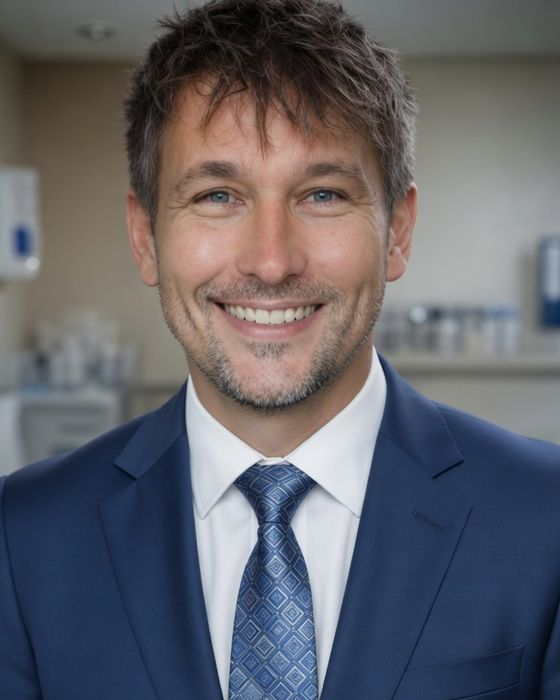
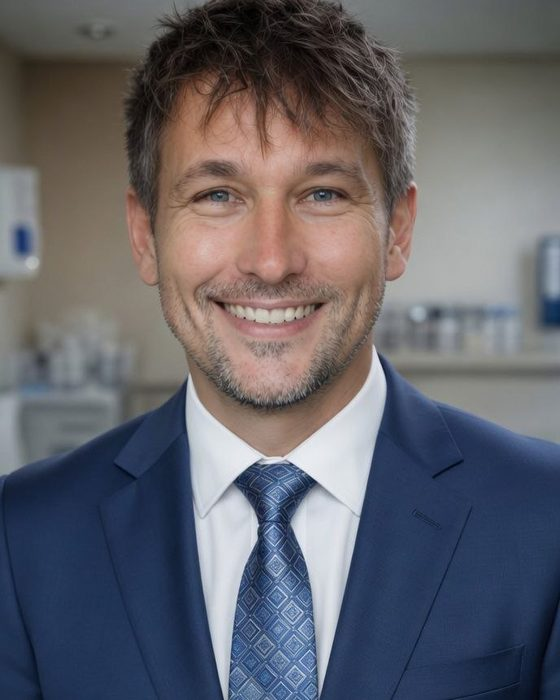
Add files via upload

diff --git a/index.html b/index.html
@@ -34,20 +34,32 @@
   --disp:'Unbounded','Manrope',system-ui,sans-serif;
   --sans:'Manrope',system-ui,-apple-system,'Segoe UI',sans-serif;
 
+  --grid:
+    linear-gradient(rgba(22,22,26,.055) 1px, transparent 1px),
+    linear-gradient(90deg, rgba(22,22,26,.055) 1px, transparent 1px),
+    linear-gradient(rgba(22,22,26,.028) 1px, transparent 1px),
+    linear-gradient(90deg, rgba(22,22,26,.028) 1px, transparent 1px);
+  --grid-dark:
+    linear-gradient(rgba(242,241,236,.055) 1px, transparent 1px),
+    linear-gradient(90deg, rgba(242,241,236,.055) 1px, transparent 1px),
+    linear-gradient(rgba(242,241,236,.028) 1px, transparent 1px),
+    linear-gradient(90deg, rgba(242,241,236,.028) 1px, transparent 1px);
+  --grid-size:112px 112px,112px 112px,28px 28px,28px 28px;
+
   --pad:clamp(18px,5vw,72px);
   --maxw:1160px;
 }
 *{box-sizing:border-box}
 html{-webkit-text-size-adjust:100%;scroll-behavior:smooth}
-body{margin:0;background:var(--paper);color:var(--ink);font-family:var(--sans);font-size:17px;line-height:1.62;-webkit-font-smoothing:antialiased}
-img{max-width:100%;display:block}
+body{margin:0;background-color:var(--paper);background-image:var(--grid);background-size:var(--grid-size);color:var(--ink);font-family:var(--sans);font-size:17px;line-height:1.62;-webkit-font-smoothing:antialiased}
+img{max-width:100%;height:auto;display:block}
 a{color:var(--red)}
 :focus-visible{outline:3px solid var(--red);outline-offset:3px}
 
 .wrap{max-width:var(--maxw);margin:0 auto;padding-left:var(--pad);padding-right:var(--pad)}
 .sect{padding:clamp(52px,7.5vw,96px) 0}
-.sect--tint{background:var(--paper-2)}
-.sect--dark{background:var(--ink);color:var(--paper)}
+.sect--tint{background-color:var(--paper-2);background-image:var(--grid);background-size:var(--grid-size)}
+.sect--dark{background-color:var(--ink);color:var(--paper);background-image:var(--grid-dark);background-size:var(--grid-size)}
 .sect--dark .mute,.sect--dark .lede{color:#A9A9B2}
 .sect--dark .eyebrow{color:#FF7A5C}
 
@@ -110,9 +122,8 @@ p{margin:0 0 1.05em}
 .steps p{margin:0;font-size:16px;color:var(--mute)}
 
 /* инструменты */
-.toolwrap{display:grid;gap:clamp(24px,4vw,48px);align-items:start;margin-top:clamp(24px,3.5vw,38px)}
-@media(min-width:920px){.toolwrap{grid-template-columns:minmax(0,1fr) minmax(0,.72fr)}}
-.tools{display:grid;grid-template-columns:repeat(2,1fr);gap:10px}
+.tools{display:grid;grid-template-columns:repeat(2,1fr);gap:10px;margin-top:clamp(24px,3.5vw,38px)}
+@media(min-width:820px){.tools{grid-template-columns:repeat(4,1fr)}}
 .tools span{border:1.5px solid var(--ink);padding:15px 16px;font-weight:700;font-size:16px;letter-spacing:0;background:var(--paper)}
 .sect--tint .tools span{background:var(--paper-2)}
 .figure{border:2px solid var(--ink);background:#fff}
@@ -138,9 +149,17 @@ p{margin:0 0 1.05em}
 @media(min-width:860px){.author{grid-template-columns:300px minmax(0,1fr)}}
 .author__photo{border:2px solid var(--ink);background:var(--paper-2)}
 .regs{list-style:none;margin:22px 0 0;padding:0;border-top:1px solid var(--line-2)}
-.regs li{display:grid;gap:2px;padding:14px 0;border-bottom:1px solid var(--line-2);font-size:16px}
-@media(min-width:600px){.regs li{grid-template-columns:110px 1fr;gap:22px;align-items:baseline}}
-.regs b{font-weight:700;font-size:14px;color:var(--red);letter-spacing:.02em}
+.regs li{display:grid;gap:6px;padding:20px 0;border-bottom:1px solid var(--line-2);font-size:16px}
+@media(min-width:600px){.regs li{grid-template-columns:110px 1fr;gap:24px;align-items:start}}
+.regs b{font-weight:700;font-size:14px;color:var(--red);letter-spacing:.02em;line-height:1.7}
+.regs li>div>p{margin:0}
+.cert{display:block;max-width:340px;margin-top:16px;border:2px solid var(--ink);background:#fff;line-height:0;transition:transform .15s,box-shadow .15s}
+.cert:hover{transform:translateY(-2px);box-shadow:6px 6px 0 var(--ink)}
+.cert img{width:100%}
+.viscap{display:block;font-size:13.5px;color:var(--mute);margin-top:9px;line-height:1.5}
+.orglogo{margin-top:18px;width:auto}
+.orglogo--like{height:44px}
+.orglogo--mail{height:30px}
 .offer{margin-top:clamp(26px,3.5vw,38px);border:2px solid var(--ink);padding:clamp(22px,3vw,30px);background:var(--paper)}
 .offer h3{font-size:20px}
 .offer p{font-size:16px;color:var(--mute)}
@@ -233,21 +252,13 @@ p{margin:0 0 1.05em}
   <div class="wrap">
     <span class="eyebrow">ВАШИ ИНСТРУМЕНТЫ</span>
     <h2>Что у вас под управлением</h2>
-    <div class="toolwrap">
-      <div>
-        <div class="tools">
-          <span>Цена</span><span>Качество</span>
-          <span>6 рекламных каналов</span><span>Рекламный бюджет</span>
-          <span>Количество столиков</span><span>Сотрудники</span>
-          <span>Кредиты</span><span>Инвестиции</span>
-        </div>
-        <p class="mute" style="margin-top:22px;font-size:16px">Ни один инструмент не работает сам по себе. Низкая цена без качества приводит клиентов, которые не возвращаются. Реклама без пропускной способности приводит очередь, которую некому обслужить. Кредит закрывает кассовый разрыв и создаёт новый.</p>
-      </div>
-      <div>
-        <figure class="figure" style="margin:0"><img src="tools.jpg" width="600" height="874" alt="Панель инструментов управления рестораном в игре: цена, качество, реклама через шесть каналов, количество столиков" loading="lazy"></figure>
-        <p class="figcap">Панель управления одним игровым месяцем.</p>
-      </div>
+    <div class="tools">
+      <span>Цена</span><span>Качество</span>
+      <span>6 рекламных каналов</span><span>Рекламный бюджет</span>
+      <span>Количество столиков</span><span>Сотрудники</span>
+      <span>Кредиты</span><span>Инвестиции</span>
     </div>
+    <p class="mute" style="margin-top:24px;font-size:16.5px;max-width:74ch">Ни один инструмент не работает сам по себе. Низкая цена без качества приводит клиентов, которые не возвращаются. Реклама без пропускной способности приводит очередь, которую некому обслужить. Кредит закрывает кассовый разрыв и создаёт новый.</p>
   </div>
 </section>
 
@@ -334,11 +345,38 @@ p{margin:0 0 1.05em}
         <h2 style="margin-bottom:.3em">Николай Владимирович Буленков</h2>
         <p class="lede">Создатель фасилитационных бизнес-игр и корпоративных тренингов. Больше двадцати лет в продажах, управлении и развитии бизнеса.</p>
         <ul class="regs">
-          <li><b>2014</b><span>Создал «Симулятор сделки с недвижимостью». Продукт отмечен Ассоциацией риэлторов России как самый полезный обучающий продукт.</span></li>
-          <li><b>2017—2019</b><span>Директор по продажам Like Центра (Аяз Шабутдинов). По итогам 2019 года компания возглавила рейтинг онлайн-школ для предпринимателей, опередив «Сколково», Академию бизнеса EY и академию PwC.</span></li>
-          <li><b>2019—2021</b><span>Руководитель обучающего центра проекта «33 слона» в структуре Mail.ru&nbsp;Group.</span></li>
-          <li><b>Практика</b><span>Рост валовой выручки департамента со 130 до 900 млн ₽. Управление развитием сети из 21 агентства недвижимости. Внедрение CRM и ERP, вдвое увеличившее эффективное время работы менеджеров.</span></li>
-          <li><b>Образование</b><span>МГТУ им. Н. Э. Баумана, радиоэлектронные системы и устройства. Английский C1.</span></li>
+          <li>
+            <b>2014</b>
+            <div>
+              <p>Создал игру «Симулятор сделки» — тренажёр для агентов по недвижимости. Признана самым полезным инструментом для обучения риэлторов России в 2014 году по версии МАУА, первого профсоюза риэлторов страны.</p>
+              <a class="cert" href="cert.jpg" target="_blank" rel="noopener">
+                <img src="cert.jpg" width="1200" height="799" alt="Сертификат МАУА: Николай Буленков создал самый полезный инструмент для обучения риэлторов России в 2014 году — игру «Симулятор сделки»" loading="lazy">
+              </a>
+              <span class="viscap">Нажмите, чтобы открыть сертификат целиком</span>
+            </div>
+          </li>
+          <li>
+            <b>2017—2019</b>
+            <div>
+              <p>Директор по продажам Like Центра (Аяз Шабутдинов). По итогам 2019 года компания возглавила рейтинг онлайн-школ для предпринимателей, опередив «Сколково», Академию бизнеса EY и академию PwC.</p>
+              <img class="orglogo orglogo--like" src="logo-like.png" width="194" height="88" alt="Like Центр" loading="lazy">
+            </div>
+          </li>
+          <li>
+            <b>2019—2021</b>
+            <div>
+              <p>Руководитель обучающего центра проекта «33 слона» в структуре Mail.ru&nbsp;Group.</p>
+              <img class="orglogo orglogo--mail" src="logo-mailru.png" width="187" height="60" alt="Mail.ru Group" loading="lazy">
+            </div>
+          </li>
+          <li>
+            <b>Практика</b>
+            <div><p>Рост валовой выручки департамента со 130 до 900 млн ₽. Управление развитием сети из 21 агентства недвижимости. Внедрение CRM и ERP, вдвое увеличившее эффективное время работы менеджеров.</p></div>
+          </li>
+          <li>
+            <b>Образование</b>
+            <div><p>МГТУ им. Н. Э. Баумана, радиоэлектронные системы и устройства.</p></div>
+          </li>
         </ul>
 
         <div class="offer">
